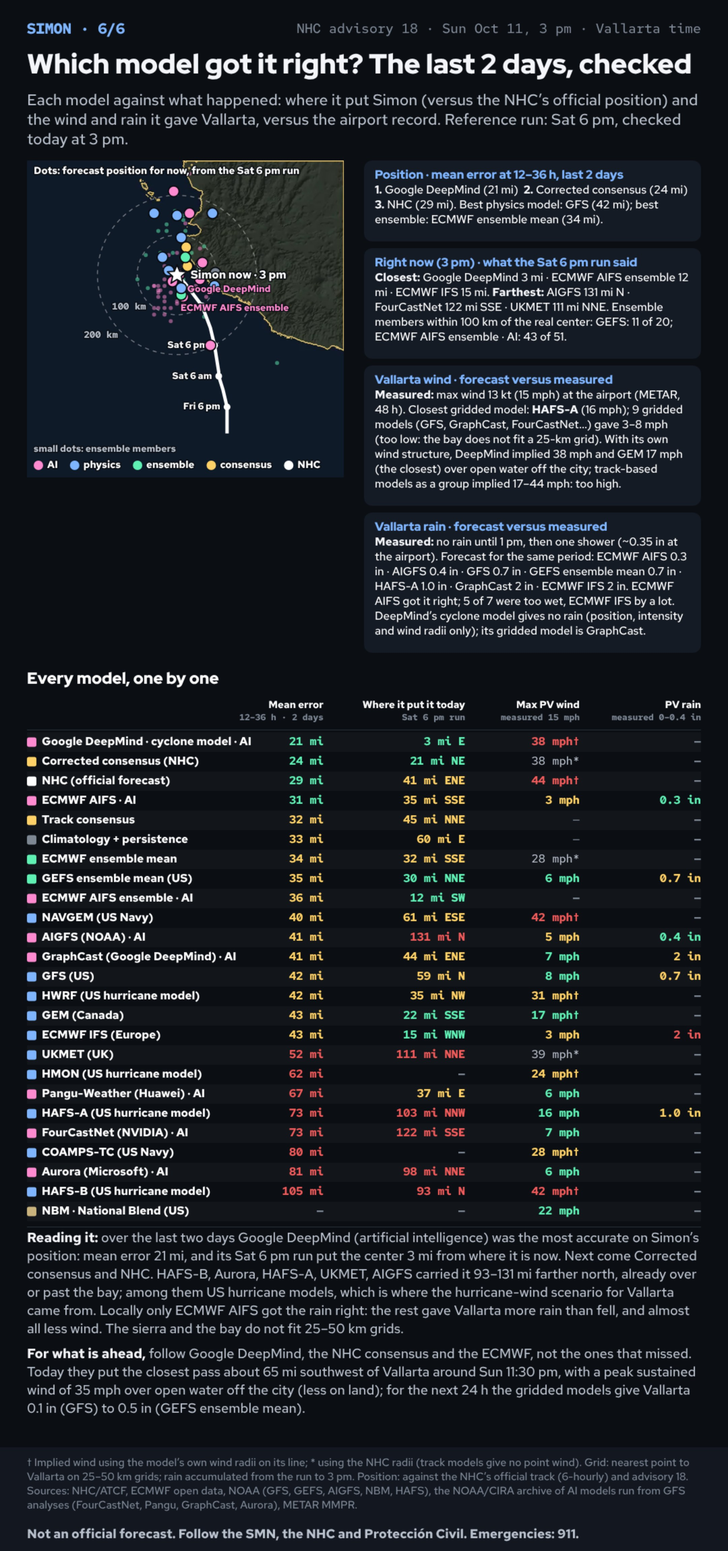
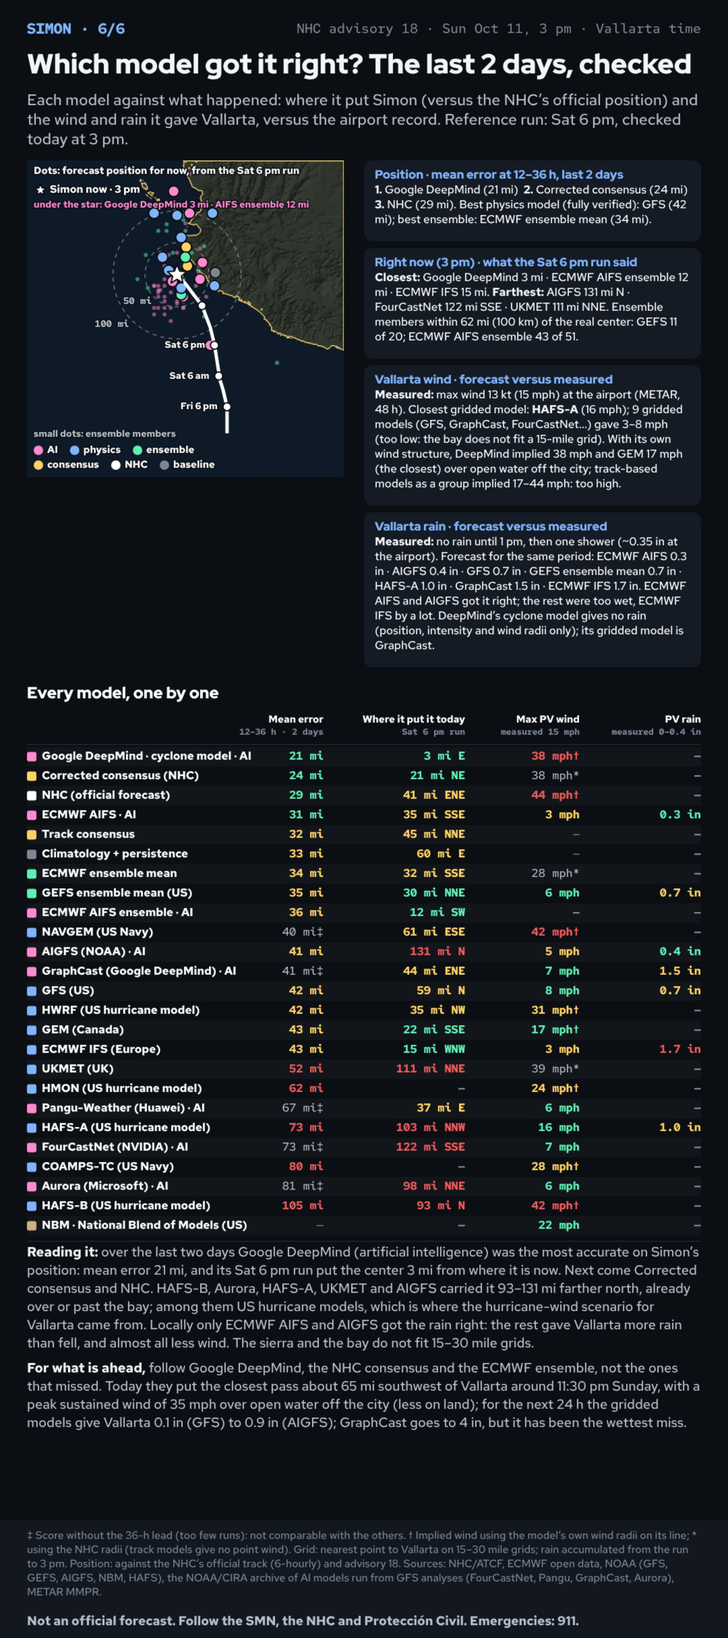
Simon verification graphic: review fixes (incomplete-score marker, AI models in the next-24h rain range, consistent rain verdict, miles throughout in English, map labels and legend, Spanish wording)
Claude-Session: https://claude.ai/code/session_01FJNjJWTDcgPgB2hpttgoDr

Changed region(s): [[0.031, 0.0, 0.9616, 0.9948], [0.4032, 0.2798, 0.4343, 0.3109]]

diff --git a/hurricane-simon/bay/src/graphics.html b/hurricane-simon/bay/src/graphics.html
@@ -306,14 +306,16 @@ function gSummary(){ var HS = SUM_BI ? 1800 : 1700; cv.height = HS; cx.fillStyle
   else wrap(L(fES, fEN), 40, fy + 34, W - 80, 19, 24, C.mute, 500);
   text(bt('No es un pronóstico oficial', 'Not an official forecast') + ' · SMN · NHC · Protección Civil · 911', 40, HS - 24, 19, C.ink2, 700, 'left', FT); }
 // ====================== 7. MODEL VERIFICATION: the last two days, checked ======================
-function rmm(mm){ if (mm === null || mm === undefined) return '—'; return LANG === 'es' ? Math.round(mm) + ' mm' : (mm / 25.4).toFixed(mm < 25 ? 1 : 0) + ' in'; }
+function rmm(mm){ if (mm === null || mm === undefined) return '—'; return LANG === 'es' ? Math.round(mm) + ' mm' : (mm / 25.4).toFixed(mm < 100 ? 1 : 0) + ' in'; }
+function joinY(arr){ if (arr.length < 2) return arr.join(''); return arr.slice(0, -1).join(', ') + (LANG === 'es' ? ' y ' : ' and ') + arr[arr.length - 1]; }
+function dayAt(iso){ var d = roundH(iso, 30); return LANG === 'es' ? 'el ' + DL.es[d.getUTCDay()] + ' hacia las ' + hr(d) : 'around ' + hr(d) + ' ' + DL.en[d.getUTCDay()]; }
 function kmS(km){ if (km === null || km === undefined) return '—'; return LANG === 'es' ? Math.round(km) + ' km' : Math.round(km / 1.609) + ' mi'; }
 function ktS(kt){ if (kt === null || kt === undefined) return '—'; return LANG === 'es' ? Math.round(kt * 1.852) + ' km/h' : Math.round(kt * 1.15078) + ' mph'; }
 function sn(m){ return m.name[LANG === 'es' ? 0 : 1].replace(/ · .*$/, '').replace(/ \(.*\)$/, ''); }
 function vcol(x, g, a){ return x <= g ? C.ok : x <= a ? C.t1 : C.t3; }
 function star(x, y, r, col){ cx.fillStyle = col; cx.strokeStyle = '#0b0e13'; cx.lineWidth = 2; cx.beginPath(); for (var i = 0; i < 10; i++){ var rr = i % 2 ? r * 0.45 : r, a = -Math.PI / 2 + i * Math.PI / 5; cx.lineTo(x + rr * Math.cos(a), y + rr * Math.sin(a)); } cx.closePath(); cx.fill(); cx.stroke(); }
 function rangeKt(a, b){ return LANG === 'es' ? Math.round(a * 1.852) + '–' + Math.round(b * 1.852) + ' km/h' : Math.round(a * 1.15078) + '–' + Math.round(b * 1.15078) + ' mph'; }
-function gVerify(){ var HV = 2300; cv.height = HV; cx.fillStyle = C.bg; cx.fillRect(0, 0, W, HV);
+function gVerify(){ var HV = 2430; cv.height = HV; cx.fillStyle = C.bg; cx.fillRect(0, 0, W, HV);
   var ref = VF.ref_cycle, refTxt = dh(ref), nowTxt = hr(cst(VF.now.t)), O = VF.obs;
   header(6, L('¿Qué modelo ha acertado? Los últimos 2 días, a prueba', 'Which model got it right? The last 2 days, checked'),
     L('Cada modelo contra lo que pasó: dónde puso a Simon (frente a la posición oficial del NHC) y qué viento y lluvia le dio a Vallarta, frente a lo medido en el aeropuerto. Corrida de referencia: la del ' + refTxt + ', verificada hoy a las ' + nowTxt + '.',
@@ -322,20 +324,22 @@ function gVerify(){ var HV = 2300; cv.height = HV; cx.fillStyle = C.bg; cx.fillR
   var rb = LY.reg.bbox, R = {x: 40, y: MAP_TOP + 10, w: 470, h: 470, bbox: rb}; clipMap(R); if (IMG.reg_base) cx.drawImage(IMG.reg_base, R.x, R.y, R.w, R.h);
   cx.fillStyle = 'rgba(255,214,120,.6)'; var s = R.w / LY.reg.w; LY.reg.coast.forEach(function(p){ cx.fillRect(R.x + p[0] * s, R.y + p[1] * s, 1.5, 1.5); });
   var nowP = px(R, VF.now.lat, VF.now.lon), kmpx = R.h / ((rb[0] - rb[1]) * 110.57);
-  [100, 200].forEach(function(r){ cx.strokeStyle = 'rgba(255,255,255,.4)'; cx.setLineDash([6, 6]); cx.lineWidth = 1.5; cx.beginPath(); cx.arc(nowP[0], nowP[1], r * kmpx, 0, 7); cx.stroke(); cx.setLineDash([]); text(r + ' km', nowP[0] - r * kmpx * 0.71 - 4, nowP[1] + r * kmpx * 0.71 + 6, 14, C.ink2, 600, 'right', FM, true); });
+  (LANG === 'es' ? [[100, '100 km'], [200, '200 km']] : [[80.47, '50 mi'], [160.93, '100 mi']]).forEach(function(q){ var r = q[0]; cx.strokeStyle = 'rgba(255,255,255,.4)'; cx.setLineDash([6, 6]); cx.lineWidth = 1.5; cx.beginPath(); cx.arc(nowP[0], nowP[1], r * kmpx, 0, 7); cx.stroke(); cx.setLineDash([]); text(q[1], nowP[0] - r * kmpx * 0.71 - 4, nowP[1] + r * kmpx * 0.71 + 6, 14, C.ink2, 600, 'right', FM, true); });
   Object.keys(VF.members).forEach(function(k){ var m = VF.members[k]; cx.fillStyle = k === 'gefs' ? 'rgba(95,240,180,.5)' : 'rgba(255,138,208,.5)'; m.pos.forEach(function(p){ var q = px(R, p[0], p[1]); cx.beginPath(); cx.arc(q[0], q[1], 3, 0, 7); cx.fill(); }); });
   var t0 = Date.parse(VF.window_start.replace('Z', ':00Z')) - 6 * 3600e3, bt = VF.best.filter(function(b){ return Date.parse(b.t.replace('Z', ':00Z')) >= t0; }).map(function(b){ return [b.lat, b.lon, b.t]; }); bt.push([VF.now.lat, VF.now.lon, VF.now.t]);
-  cx.strokeStyle = '#fff'; cx.lineWidth = 5; cx.beginPath(); bt.forEach(function(p, q){ var z = px(R, p[0], p[1]); q ? cx.lineTo(z[0], z[1]) : cx.moveTo(z[0], z[1]); }); cx.stroke();
-  bt.forEach(function(p){ if (p[2] === VF.now.t) return; var d = cst(p[2]); if (d.getUTCHours() % 12 !== 6 || d.getUTCMinutes()) return; var z = px(R, p[0], p[1]); cx.fillStyle = '#fff'; cx.beginPath(); cx.arc(z[0], z[1], 5, 0, 7); cx.fill(); if (Math.hypot(z[0] - nowP[0], z[1] - nowP[1]) > 70) text(dh(p[2]), z[0] - 10, z[1], 14, '#fff', 600, 'right', FT, true); });
   var dots = VF.models.filter(function(m){ return m.now && m.now[ref]; });
   dots.forEach(function(m){ var n = m.now[ref], z = px(R, n.lat, n.lon); cx.fillStyle = m.color; cx.strokeStyle = '#0b0e13'; cx.lineWidth = 2; cx.beginPath(); cx.arc(z[0], z[1], 8, 0, 7); cx.fill(); cx.stroke(); });
-  star(nowP[0], nowP[1], 15, '#fff'); text(L('Simon ahora · ', 'Simon now · ') + nowTxt, nowP[0] + 20, nowP[1] + 1, 17, '#fff', 800, 'left', FT, true);
-  var byNow = dots.slice().sort(function(a, b){ return a.now[ref].err - b.now[ref].err; });
-  byNow.slice(0, 2).forEach(function(m, i){ var n = m.now[ref], z = px(R, n.lat, n.lon); text(sn(m), z[0] + 12, z[1] + 22 + i * 18, 14, m.color, 700, 'left', FT, true); });
+  cx.strokeStyle = '#fff'; cx.lineWidth = 5; cx.beginPath(); bt.forEach(function(p, q){ var z = px(R, p[0], p[1]); q ? cx.lineTo(z[0], z[1]) : cx.moveTo(z[0], z[1]); }); cx.stroke();
+  bt.forEach(function(p){ if (p[2] === VF.now.t) return; var d = cst(p[2]); if (d.getUTCHours() % 12 !== 6 || d.getUTCMinutes()) return; var z = px(R, p[0], p[1]); cx.fillStyle = '#fff'; cx.strokeStyle = '#0b0e13'; cx.lineWidth = 2; cx.beginPath(); cx.arc(z[0], z[1], 6, 0, 7); cx.fill(); cx.stroke(); if (Math.hypot(z[0] - nowP[0], z[1] - nowP[1]) > 70) text(dh(p[2]), z[0] - 14, z[1], 14, '#fff', 700, 'right', FT, true); });
+  star(nowP[0], nowP[1], 15, '#fff');
+  var byNow = dots.slice().sort(function(a, b){ return a.now[ref].err - b.now[ref].err; }), nearStar = [];
+  byNow.slice(0, 2).forEach(function(m){ var n = m.now[ref], z = px(R, n.lat, n.lon); if (Math.hypot(z[0] - nowP[0], z[1] - nowP[1]) < 24) nearStar.push(sn(m).replace('ECMWF ', '') + (LANG === 'es' ? ' a ' : ' ') + kmS(n.err)); else text(sn(m), z[0] + 12, z[1] + 20, 14, m.color, 700, 'left', FT, true); });
+  star(R.x + 20, R.y + 44, 9, '#fff'); text(L('Simon ahora · ', 'Simon now · ') + nowTxt, R.x + 34, R.y + 44, 16, '#fff', 800, 'left', FT, true);
+  if (nearStar.length) text(L('bajo la estrella: ', 'under the star: ') + nearStar.join(' · '), R.x + 10, R.y + 66, 14, '#ff8ad0', 700, 'left', FT, true);
   text(L('Puntos: posición prevista para ahora, corrida del ' + refTxt, 'Dots: forecast position for now, from the ' + refTxt + ' run'), R.x + 10, R.y + 16, 15, '#fff', 600, 'left', FT, true);
-  var lg = [[KIND_COL_AI(), L('IA', 'AI')], ['#7fb5ff', L('físico', 'physics')], ['#5ff0b4', L('ensamble', 'ensemble')], ['#ffd166', L('consenso', 'consensus')], ['#ffffff', 'NHC']]; var lx = R.x + 10, ly = R.y + R.h - 18;
-  lg.forEach(function(q){ cx.fillStyle = q[0]; cx.beginPath(); cx.arc(lx + 7, ly, 7, 0, 7); cx.fill(); text(q[1], lx + 20, ly, 15, '#fff', 600, 'left', FT, true); cx.font = '600 15px ' + FT; lx += 28 + cx.measureText(q[1]).width + 10; });
-  text(L('puntitos: miembros de ensamble', 'small dots: ensemble members'), R.x + 10, R.y + R.h - 42, 14, C.ink2, 600, 'left', FT, true); cx.restore();
+  var lg = [[KIND_COL_AI(), L('IA', 'AI')], ['#7fb5ff', L('físico', 'physics')], ['#5ff0b4', L('ensamble', 'ensemble')], ['#ffd166', L('consenso', 'consensus')], ['#ffffff', 'NHC'], ['#7d8794', L('referencia', 'baseline')]]; var lx = R.x + 10, ly = R.y + R.h - 40;
+  lg.forEach(function(q, i){ if (i === 3){ lx = R.x + 10; ly += 22; } cx.fillStyle = q[0]; cx.beginPath(); cx.arc(lx + 7, ly, 7, 0, 7); cx.fill(); text(q[1], lx + 20, ly, 15, '#fff', 600, 'left', FT, true); cx.font = '600 15px ' + FT; lx += 28 + cx.measureText(q[1]).width + 10; });
+  text(L('puntitos: miembros de ensamble', 'small dots: ensemble members'), R.x + 10, R.y + R.h - 64, 14, C.ink2, 600, 'left', FT, true); cx.restore();
   // ---- verdict cards ----
   var byScore = VF.models.filter(function(m){ return m.score !== null && m.n >= 1; }), top3 = byScore.slice(0, 3);
   var bestOf = function(kind){ return byScore.filter(function(m){ return m.kind === kind; })[0]; };
@@ -346,23 +350,23 @@ function gVerify(){ var HV = 2300; cv.height = HV; cx.fillStyle = C.bg; cx.fillR
   var trkW = VF.models.filter(function(m){ return (m.pv.wind_src === 'track' || m.pv.wind_src === 'radii') && m.pv.wind_max_kt; }).map(function(m){ return m.pv.wind_max_kt; });
   var gdm = VF.models.filter(function(m){ return m.key === 'GDMN' && m.pv.wind_max_kt; })[0], radW = VF.models.filter(function(m){ return m.pv.wind_src === 'radii' && m.pv.wind_max_kt; }).sort(function(a, b){ return Math.abs(a.pv.wind_max_kt - O.wind_max_kt) - Math.abs(b.pv.wind_max_kt - O.wind_max_kt); });
   var cx0 = 540, cw = W - 40 - cx0, cy = MAP_TOP + 10;
-  function vcard(title, body){ var hh = rich(body, cx0 + 16, -9999, cw - 32, 17, 22, '#fff'); var h = 44 + hh + 10; cx.fillStyle = '#151b25'; roundRect(cx0, cy, cw, h, 12); cx.fill(); text(title, cx0 + 16, cy + 22, 18, C.accent, 800, 'left', FD); rich(body, cx0 + 16, cy + 44, cw - 32, 17, 22, '#fff'); cy += h + 10; }
+  function vcard(title, body){ var hh = rich(body, cx0 + 16, -9999, cw - 32, 17, 22, '#fff'); var h = 44 + hh + 10; cx.fillStyle = '#151b25'; roundRect(cx0, cy, cw, h, 12); cx.fill(); text(title, cx0 + 16, cy + 22, fitText(title, cw - 32, 18, 800, FD), C.accent, 800, 'left', FD); rich(body, cx0 + 16, cy + 44, cw - 32, 17, 22, '#fff'); cy += h + 10; }
   var join = function(arr){ return arr.join(LANG === 'es' ? ' · ' : ' · '); };
   vcard(L('Posición · error medio a 12–36 h, últimos 2 días', 'Position · mean error at 12–36 h, last 2 days'),
-    L('*1.* ' + sn(top3[0]) + ' (' + kmS(top3[0].score) + ')  *2.* ' + sn(top3[1]) + ' (' + kmS(top3[1].score) + ')  *3.* ' + sn(top3[2]) + ' (' + kmS(top3[2].score) + '). Mejor modelo físico: ' + sn(bestOf('dyn')) + ' (' + kmS(bestOf('dyn').score) + '); mejor ensamble: ' + sn(bestOf('ens')) + ' (' + kmS(bestOf('ens').score) + ').',
-      '*1.* ' + sn(top3[0]) + ' (' + kmS(top3[0].score) + ')  *2.* ' + sn(top3[1]) + ' (' + kmS(top3[1].score) + ')  *3.* ' + sn(top3[2]) + ' (' + kmS(top3[2].score) + '). Best physics model: ' + sn(bestOf('dyn')) + ' (' + kmS(bestOf('dyn').score) + '); best ensemble: ' + sn(bestOf('ens')) + ' (' + kmS(bestOf('ens').score) + ').'));
-  var mem = Object.keys(VF.members).map(function(k){ var m = VF.members[k]; return m.name[LANG === 'es' ? 0 : 1] + ': ' + m.within100 + L(' de ', ' of ') + m.n; });
-  vcard(L('Ahora mismo (' + nowTxt + ') · lo que decía la corrida del ' + refTxt, 'Right now (' + nowTxt + ') · what the ' + refTxt + ' run said'),
+    L('*1.* ' + sn(top3[0]) + ' (' + kmS(top3[0].score) + ')  *2.* ' + sn(top3[1]) + ' (' + kmS(top3[1].score) + ')  *3.* ' + sn(top3[2]) + ' (' + kmS(top3[2].score) + '). Mejor modelo físico (con verificación completa): ' + sn(bestOf('dyn')) + ' (' + kmS(bestOf('dyn').score) + '); mejor ensamble: ' + sn(bestOf('ens')) + ' (' + kmS(bestOf('ens').score) + ').',
+      '*1.* ' + sn(top3[0]) + ' (' + kmS(top3[0].score) + ')  *2.* ' + sn(top3[1]) + ' (' + kmS(top3[1].score) + ')  *3.* ' + sn(top3[2]) + ' (' + kmS(top3[2].score) + '). Best physics model (fully verified): ' + sn(bestOf('dyn')) + ' (' + kmS(bestOf('dyn').score) + '); best ensemble: ' + sn(bestOf('ens')) + ' (' + kmS(bestOf('ens').score) + ').'));
+  var mem = Object.keys(VF.members).map(function(k){ var m = VF.members[k]; return m.name[LANG === 'es' ? 0 : 1].replace(/ · .*$/, '') + (LANG === 'es' ? ', ' : ' ') + m.within100 + L(' de ', ' of ') + m.n; });
+  vcard(L('Ahora (' + nowTxt + ') · según la corrida del ' + refTxt, 'Right now (' + nowTxt + ') · what the ' + refTxt + ' run said'),
     L('*Más cerca:* ' + join(nowB.map(function(m){ return sn(m) + ' ' + kmS(m.now[ref].err); })) + '. *Más lejos:* ' + join(nowW.map(function(m){ return sn(m) + ' ' + kmS(m.now[ref].err) + ' al ' + dirOf(m.now[ref]); })) + '. Miembros de ensamble a menos de 100 km del centro real: ' + mem.join('; ') + '.',
-      '*Closest:* ' + join(nowB.map(function(m){ return sn(m) + ' ' + kmS(m.now[ref].err); })) + '. *Farthest:* ' + join(nowW.map(function(m){ return sn(m) + ' ' + kmS(m.now[ref].err) + ' ' + dirOf(m.now[ref]); })) + '. Ensemble members within 100 km of the real center: ' + mem.join('; ') + '.'));
+      '*Closest:* ' + join(nowB.map(function(m){ return sn(m) + ' ' + kmS(m.now[ref].err); })) + '. *Farthest:* ' + join(nowW.map(function(m){ return sn(m) + ' ' + kmS(m.now[ref].err) + ' ' + dirOf(m.now[ref]); })) + '. Ensemble members within 62 mi (100 km) of the real center: ' + mem.join('; ') + '.'));
   var w0 = gridW[0], wlo = gridW.filter(function(m){ return m.pv.wind_max_kt < O.wind_max_kt - 4; }), tmin = trkW.length ? Math.min.apply(null, trkW) : null, tmax = trkW.length ? Math.max.apply(null, trkW) : null;
   vcard(L('Viento en Vallarta · previsto frente a medido', 'Vallarta wind · forecast versus measured'),
     L('*Medido:* ' + O.wind_note[0] + '. Rejilla más cercana a la realidad: *' + sn(w0) + '* (' + ktS(w0.pv.wind_max_kt) + ')' + (wlo.length ? '; ' + (wlo.length > 3 ? wlo.length + ' modelos de rejilla (' + wlo.slice(0, 3).map(sn).join(', ') + '…)' : join(wlo.map(sn))) + ' dieron ' + rangeKt(Math.min.apply(null, wlo.map(function(m){ return m.pv.wind_max_kt; })), Math.max.apply(null, wlo.map(function(m){ return m.pv.wind_max_kt; }))) + ' (de menos: la bahía no cabe en una malla de 25 km)' : '') + '. Con su propia estructura de viento, ' + (gdm ? 'DeepMind implicaba ' + ktS(gdm.pv.wind_max_kt) + ' y ' : '') + (radW.length ? sn(radW[0]) + ' ' + ktS(radW[0].pv.wind_max_kt) + ' (el más cercano)' : '') + ' en mar abierto frente a la ciudad; en conjunto los modelos de trayectoria implicaban ' + rangeKt(tmin, tmax) + ': de más.',
-      '*Measured:* ' + O.wind_note[1] + '. Closest gridded model: *' + sn(w0) + '* (' + ktS(w0.pv.wind_max_kt) + ')' + (wlo.length ? '; ' + (wlo.length > 3 ? wlo.length + ' gridded models (' + wlo.slice(0, 3).map(sn).join(', ') + '…)' : join(wlo.map(sn))) + ' gave ' + rangeKt(Math.min.apply(null, wlo.map(function(m){ return m.pv.wind_max_kt; })), Math.max.apply(null, wlo.map(function(m){ return m.pv.wind_max_kt; }))) + ' (too low: the bay does not fit a 25-km grid)' : '') + '. With its own wind structure, ' + (gdm ? 'DeepMind implied ' + ktS(gdm.pv.wind_max_kt) + ' and ' : '') + (radW.length ? sn(radW[0]) + ' ' + ktS(radW[0].pv.wind_max_kt) + ' (the closest)' : '') + ' over open water off the city; track-based models as a group implied ' + rangeKt(tmin, tmax) + ': too high.'));
-  var r0 = gridR[0], rlast = gridR[gridR.length - 1], wet = gridR.filter(function(m){ return m.pv.rain_mm > O.rain_mm_hi + 5; }), r0ok = r0.pv.rain_mm <= O.rain_mm_hi + 5;
+      '*Measured:* ' + O.wind_note[1] + '. Closest gridded model: *' + sn(w0) + '* (' + ktS(w0.pv.wind_max_kt) + ')' + (wlo.length ? '; ' + (wlo.length > 3 ? wlo.length + ' gridded models (' + wlo.slice(0, 3).map(sn).join(', ') + '…)' : join(wlo.map(sn))) + ' gave ' + rangeKt(Math.min.apply(null, wlo.map(function(m){ return m.pv.wind_max_kt; })), Math.max.apply(null, wlo.map(function(m){ return m.pv.wind_max_kt; }))) + ' (too low: the bay does not fit a 15-mile grid)' : '') + '. With its own wind structure, ' + (gdm ? 'DeepMind implied ' + ktS(gdm.pv.wind_max_kt) + ' and ' : '') + (radW.length ? sn(radW[0]) + ' ' + ktS(radW[0].pv.wind_max_kt) + ' (the closest)' : '') + ' over open water off the city; track-based models as a group implied ' + rangeKt(tmin, tmax) + ': too high.'));
+  var r0 = gridR[0], rlast = gridR[gridR.length - 1], wet = gridR.filter(function(m){ return m.pv.rain_mm > O.rain_mm_hi + 5; }), okR = gridR.filter(function(m){ return m.pv.rain_mm <= O.rain_mm_hi + 5; }), r0ok = okR.length > 0;
   vcard(L('Lluvia en Vallarta · prevista frente a medida', 'Vallarta rain · forecast versus measured'),
-    L('*Medido:* ' + O.rain_note[0] + '. Previsto para el mismo lapso: ' + join(gridR.map(function(m){ return sn(m) + ' ' + rmm(m.pv.rain_mm); })) + '. ' + (r0ok ? sn(r0) + ' acertó; ' + (wet.length === gridR.length - 1 ? 'los demás' : wet.length + ' de ' + gridR.length) + ' dieron de más' : 'todos dieron de más') + (rlast.pv.rain_mm > 30 ? ', ' + sn(rlast) + ' por mucho' : '') + '. El modelo de ciclones de DeepMind no da lluvia (solo posición, intensidad y radios de viento); su modelo de rejilla es GraphCast.',
-      '*Measured:* ' + O.rain_note[1] + '. Forecast for the same period: ' + join(gridR.map(function(m){ return sn(m) + ' ' + rmm(m.pv.rain_mm); })) + '. ' + (r0ok ? sn(r0) + ' got it right; ' + (wet.length === gridR.length - 1 ? 'the rest' : wet.length + ' of ' + gridR.length) + ' were too wet' : 'all were too wet') + (rlast.pv.rain_mm > 30 ? ', ' + sn(rlast) + ' by a lot' : '') + '. DeepMind’s cyclone model gives no rain (position, intensity and wind radii only); its gridded model is GraphCast.'));
+    L('*Medido:* ' + O.rain_note[0] + '. Previsto para el mismo lapso: ' + join(gridR.map(function(m){ return sn(m) + ' ' + rmm(m.pv.rain_mm); })) + '. ' + (r0ok ? joinY(okR.map(sn)) + (okR.length > 1 ? ' acertaron; ' : ' acertó; ') + (wet.length === gridR.length - okR.length ? 'los demás' : wet.length + ' de ' + gridR.length) + ' dieron de más' : 'todos dieron de más') + (rlast.pv.rain_mm > 30 ? ', ' + sn(rlast) + ' por mucho' : '') + '. El modelo de ciclones de DeepMind no da lluvia (solo posición, intensidad y radios de viento); su modelo de rejilla es GraphCast.',
+      '*Measured:* ' + O.rain_note[1] + '. Forecast for the same period: ' + join(gridR.map(function(m){ return sn(m) + ' ' + rmm(m.pv.rain_mm); })) + '. ' + (r0ok ? joinY(okR.map(sn)) + ' got it right; ' + (wet.length === gridR.length - okR.length ? 'the rest' : wet.length + ' of ' + gridR.length) + ' were too wet' : 'all were too wet') + (rlast.pv.rain_mm > 30 ? ', ' + sn(rlast) + ' by a lot' : '') + '. DeepMind’s cyclone model gives no rain (position, intensity and wind radii only); its gridded model is GraphCast.'));
   // ---- the table ----
   var ty = Math.max(R.y + R.h, cy) + 30; text(L('Todos los modelos, uno por uno', 'Every model, one by one'), 40, ty, 24, '#fff', 800, 'left', FD); ty += 30;
   var X = {score: 480, now: 690, wind: 860, rain: W - 40}, PITCH = 29;
@@ -371,7 +375,7 @@ function gVerify(){ var HV = 2300; cv.height = HV; cx.fillStyle = C.bg; cx.fillR
   cx.fillStyle = C.line; cx.fillRect(40, ty, W - 80, 1); ty += 4;
   VF.models.forEach(function(m, i){ var yy = ty + i * PITCH + PITCH / 2; if (i % 2 === 0){ cx.fillStyle = 'rgba(255,255,255,.03)'; cx.fillRect(40, ty + i * PITCH, W - 80, PITCH); }
     cx.fillStyle = m.color; roundRect(40, yy - 7, 14, 14, 3); cx.fill(); var nm = m.name[LANG === 'es' ? 0 : 1]; text(nm, 62, yy, fitText(nm, 330, 17, 700, FT), '#fff', 700, 'left', FT);
-    text(m.score !== null ? kmS(m.score) : '—', X.score, yy, 17, m.score !== null ? vcol(m.score, 50, 80) : C.mute, 700, 'right', FM);
+    text(m.score !== null ? kmS(m.score) + (m.n < 1 ? '‡' : '') : '—', X.score, yy, 17, m.score !== null ? (m.n < 1 ? C.ink2 : vcol(m.score, 50, 80)) : C.mute, m.n < 1 ? 500 : 700, 'right', FM);
     var n = m.now && m.now[ref]; text(n ? kmS(n.err) + ' ' + L('al ', '') + dirOf(n) : '—', X.now, yy, 17, n ? vcol(n.err, 50, 100) : C.mute, 700, 'right', FM);
     var pw = m.pv.wind_max_kt; text(pw !== null && pw !== undefined ? ktS(pw) + (m.pv.wind_src === 'track' ? '*' : m.pv.wind_src === 'radii' ? '†' : '') : '—', X.wind, yy, 17, pw === null || pw === undefined ? C.mute : m.pv.wind_src === 'track' ? C.ink2 : vcol(Math.abs(pw - O.wind_max_kt), 8, 16), m.pv.wind_src === 'track' ? 500 : 700, 'right', FM);
     var pr = m.pv.rain_mm; text(pr !== null && pr !== undefined ? rmm(pr) : '—', X.rain, yy, 17, pr === null || pr === undefined ? C.mute : vcol(Math.max(0, pr - O.rain_mm_hi), 8, 30), 700, 'right', FM); });
@@ -379,18 +383,20 @@ function gVerify(){ var HV = 2300; cv.height = HV; cx.fillStyle = C.bg; cx.fillR
   // ---- reading + what to follow now ----
   var cs = VF.consensus, pk = cs.pass_, b0 = top3[0], b1 = top3[1], b2 = top3[2];
   var northM = byNow.filter(function(m){ return m.now[ref].err >= 140 && m.now[ref].dn > 100; }), north = northM.map(sn), nKm = northM.length ? kmS(Math.min.apply(null, northM.map(function(m){ return m.now[ref].err; }))).replace(/ .*$/, '') + '–' + kmS(Math.max.apply(null, northM.map(function(m){ return m.now[ref].err; }))) : '', hurr = northM.some(function(m){ return /^(HFSA|HFSB|HMON|CTCX)$/.test(m.key); });
-  var nxt = VF.models.filter(function(m){ return m.next && m.next.rain_mm !== null && m.next.rain_mm !== undefined && m.kind !== 'ai'; }).sort(function(a, b){ return a.next.rain_mm - b.next.rain_mm; });
-  var nxtTxt = nxt.length ? L('; para las próximas 24 h, los modelos de rejilla dan a Vallarta de ' + rmm(nxt[0].next.rain_mm) + ' (' + sn(nxt[0]) + ') a ' + rmm(nxt[nxt.length - 1].next.rain_mm) + ' (' + sn(nxt[nxt.length - 1]) + ')', '; for the next 24 h the gridded models give Vallarta ' + rmm(nxt[0].next.rain_mm) + ' (' + sn(nxt[0]) + ') to ' + rmm(nxt[nxt.length - 1].next.rain_mm) + ' (' + sn(nxt[nxt.length - 1]) + ')') : '';
-  var h1 = rich(L('*Lectura:* en los últimos dos días, ' + sn(b0) + (b0.kind === 'ai' ? ' (inteligencia artificial)' : '') + ' fue el más certero con la posición de Simon: error medio de ' + kmS(b0.score) + ', y ' + (b0.now[ref] ? 'el ' + refTxt + ' puso el centro a ' + kmS(b0.now[ref].err) + ' de donde está ahora' : 'sin fallos grandes') + '. Le siguen ' + sn(b1) + ' y ' + sn(b2) + '.' + (north.length ? ' ' + north.join(', ') + ' lo llevaban ' + nKm + ' más al norte, ya sobre la bahía o pasándola' + (hurr ? '; entre ellos, modelos de huracanes de EE. UU., de donde salía el escenario de viento de huracán en Vallarta.' : '.') : '') + ' En lo local, ' + (r0ok ? 'solo ' + sn(r0) + ' acertó con la lluvia: los demás' : 'ningún modelo de rejilla acertó: todos') + ' le pusieron a Vallarta más lluvia de la que cayó, y casi todos menos viento. La sierra y la bahía no caben en mallas de 25–50 km.',
-    '*Reading it:* over the last two days ' + sn(b0) + (b0.kind === 'ai' ? ' (artificial intelligence)' : '') + ' was the most accurate on Simon’s position: mean error ' + kmS(b0.score) + ', and ' + (b0.now[ref] ? 'its ' + refTxt + ' run put the center ' + kmS(b0.now[ref].err) + ' from where it is now' : 'no large misses') + '. Next come ' + sn(b1) + ' and ' + sn(b2) + '.' + (north.length ? ' ' + north.join(', ') + ' carried it ' + nKm + ' farther north, already over or past the bay' + (hurr ? '; among them US hurricane models, which is where the hurricane-wind scenario for Vallarta came from.' : '.') : '') + ' Locally ' + (r0ok ? 'only ' + sn(r0) + ' got the rain right: the rest' : 'no gridded model got it right: all') + ' gave Vallarta more rain than fell, and almost all less wind. The sierra and the bay do not fit 25–50 km grids.'), 40, ty, W - 80, 20, 27, C.ink2);
+  var nxt = VF.models.filter(function(m){ return m.next && m.next.rain_mm !== null && m.next.rain_mm !== undefined; }).sort(function(a, b){ return a.next.rain_mm - b.next.rain_mm; });
+  var out = null; if (nxt.length >= 3 && nxt[nxt.length - 1].next.rain_mm > 2 * nxt[nxt.length - 2].next.rain_mm){ out = nxt[nxt.length - 1]; nxt = nxt.slice(0, -1); }
+  var nxtTxt = nxt.length ? L('; para las próximas 24 h, los modelos de rejilla dan a Vallarta de ' + rmm(nxt[0].next.rain_mm) + ' (' + sn(nxt[0]) + ') a ' + rmm(nxt[nxt.length - 1].next.rain_mm) + ' (' + sn(nxt[nxt.length - 1]) + ')' + (out ? '; ' + sn(out) + ' se va a ' + rmm(out.next.rain_mm) + ', pero ha sido el que más se pasó' : ''),
+                             '; for the next 24 h the gridded models give Vallarta ' + rmm(nxt[0].next.rain_mm) + ' (' + sn(nxt[0]) + ') to ' + rmm(nxt[nxt.length - 1].next.rain_mm) + ' (' + sn(nxt[nxt.length - 1]) + ')' + (out ? '; ' + sn(out) + ' goes to ' + rmm(out.next.rain_mm) + ', but it has been the wettest miss' : '')) : '';
+  var h1 = rich(L('*Lectura:* en los últimos dos días, ' + sn(b0) + (b0.kind === 'ai' ? ' (inteligencia artificial)' : '') + ' fue el más certero con la posición de Simon: error medio de ' + kmS(b0.score) + ', y ' + (b0.now[ref] ? 'el ' + refTxt + ' puso el centro a ' + kmS(b0.now[ref].err) + ' de donde está ahora' : 'sin fallos grandes') + '. Le siguen ' + sn(b1) + ' y ' + sn(b2) + '.' + (north.length ? ' ' + joinY(north) + ' lo llevaban ' + nKm + ' más al norte, ya sobre la bahía o pasándola' + (hurr ? '; entre ellos, modelos de huracanes de EE. UU., de donde salía el escenario de viento de huracán en Vallarta.' : '.') : '') + ' En lo local, ' + (okR.length ? 'solo ' + joinY(okR.map(sn)) + (okR.length > 1 ? ' acertaron' : ' acertó') + ' con la lluvia: los demás' : 'ningún modelo de rejilla acertó: todos') + ' le pusieron a Vallarta más lluvia de la que cayó, y casi todos menos viento. La sierra y la bahía no caben en mallas de 25–50 km.',
+    '*Reading it:* over the last two days ' + sn(b0) + (b0.kind === 'ai' ? ' (artificial intelligence)' : '') + ' was the most accurate on Simon’s position: mean error ' + kmS(b0.score) + ', and ' + (b0.now[ref] ? 'its ' + refTxt + ' run put the center ' + kmS(b0.now[ref].err) + ' from where it is now' : 'no large misses') + '. Next come ' + sn(b1) + ' and ' + sn(b2) + '.' + (north.length ? ' ' + joinY(north) + ' carried it ' + nKm + ' farther north, already over or past the bay' + (hurr ? '; among them US hurricane models, which is where the hurricane-wind scenario for Vallarta came from.' : '.') : '') + ' Locally ' + (okR.length ? 'only ' + joinY(okR.map(sn)) + ' got the rain right: the rest' : 'no gridded model got it right: all') + ' gave Vallarta more rain than fell, and almost all less wind. The sierra and the bay do not fit 15–30 mile grids.'), 40, ty, W - 80, 20, 27, C.ink2);
   ty += h1 + 10;
-  var h2 = rich(L('*Para lo que viene,* conviene seguir a ' + sn(b0) + ', al consenso del NHC y al ECMWF, no a los que fallaron. Hoy ponen el paso más cercano a unos ' + dist(pk.km) + ' al ' + c8((pk.brg + 180) % 360) + ' de Vallarta hacia las ' + dh(pk.t) + ', con viento sostenido máximo de ' + spdK(pk.peak_kt) + ' en mar abierto frente a la ciudad (menos en tierra)' + nxtTxt + '.',
-    '*For what is ahead,* follow ' + sn(b0) + ', the NHC consensus and the ECMWF, not the ones that missed. Today they put the closest pass about ' + dist(pk.km) + ' ' + c8((pk.brg + 180) % 360) + ' of Vallarta around ' + dh(pk.t) + ', with a peak sustained wind of ' + spdK(pk.peak_kt) + ' over open water off the city (less on land)' + nxtTxt + '.'), 40, ty, W - 80, 20, 27, C.ink2);
+  var h2 = rich(L('*Para lo que viene,* conviene seguir a ' + sn(b0) + ', al consenso del NHC y al ensamble del ECMWF, no a los que fallaron. Hoy ponen el paso más cercano a unos ' + dist(pk.km) + ' al ' + c8((pk.brg + 180) % 360) + ' de Vallarta ' + dayAt(pk.t) + ', con viento sostenido máximo de ' + spdK(pk.peak_kt) + ' en mar abierto frente a la ciudad (menos en tierra)' + nxtTxt + '.',
+    '*For what is ahead,* follow ' + sn(b0) + ', the NHC consensus and the ECMWF ensemble, not the ones that missed. Today they put the closest pass about ' + dist(pk.km) + ' ' + c8((pk.brg + 180) % 360) + ' of Vallarta ' + dayAt(pk.t) + ', with a peak sustained wind of ' + spdK(pk.peak_kt) + ' over open water off the city (less on land)' + nxtTxt + '.'), 40, ty, W - 80, 20, 27, C.ink2);
   ty += h2;
   // ---- footer ----
-  var fES = '† Viento implícito con los radios de viento del propio modelo sobre su línea; * con los radios del NHC (los modelos de trayectoria no dan viento en un punto). Rejilla: punto más cercano a Vallarta en mallas de 25–50 km; lluvia acumulada desde la corrida hasta las ' + nowTxt + '. Posición: contra la trayectoria oficial del NHC (cada 6 h) y el boletín ' + ADV.num + '. Fuentes: NHC/ATCF, ECMWF open data, NOAA (GFS, GEFS, AIGFS, NBM, HAFS), archivo NOAA/CIRA de modelos de IA con análisis GFS (FourCastNet, Pangu, GraphCast, Aurora), METAR MMPR.';
-  var fEN = '† Implied wind using the model’s own wind radii on its line; * using the NHC radii (track models give no point wind). Grid: nearest point to Vallarta on 25–50 km grids; rain accumulated from the run to ' + nowTxt + '. Position: against the NHC’s official track (6-hourly) and advisory ' + ADV.num + '. Sources: NHC/ATCF, ECMWF open data, NOAA (GFS, GEFS, AIGFS, NBM, HAFS), the NOAA/CIRA archive of AI models run from GFS analyses (FourCastNet, Pangu, GraphCast, Aurora), METAR MMPR.';
-  var fh = wrap(L(fES, fEN), 40, 0, W - 80, 16, 21, C.mute, 500, FT, true), fy = Math.max(ty + 16, HV - fh - 70); if (fy + fh + 70 > HV) fy = HV - fh - 70;
+  var fES = '‡ Puntuación sin el plazo de 36 h (le faltan corridas): no se compara con las demás. † Viento implícito con los radios de viento del propio modelo sobre su línea; * con los radios del NHC (los modelos de trayectoria no dan viento en un punto). Rejilla: punto más cercano a Vallarta en mallas de 25–50 km; lluvia acumulada desde la corrida hasta las ' + nowTxt + '. Posición: contra la trayectoria oficial del NHC (cada 6 h) y el boletín ' + ADV.num + '. Fuentes: NHC/ATCF, ECMWF open data, NOAA (GFS, GEFS, AIGFS, NBM, HAFS), archivo NOAA/CIRA de modelos de IA con análisis GFS (FourCastNet, Pangu, GraphCast, Aurora), METAR MMPR.';
+  var fEN = '‡ Score without the 36-h lead (too few runs): not comparable with the others. † Implied wind using the model’s own wind radii on its line; * using the NHC radii (track models give no point wind). Grid: nearest point to Vallarta on 15–30 mile grids; rain accumulated from the run to ' + nowTxt + '. Position: against the NHC’s official track (6-hourly) and advisory ' + ADV.num + '. Sources: NHC/ATCF, ECMWF open data, NOAA (GFS, GEFS, AIGFS, NBM, HAFS), the NOAA/CIRA archive of AI models run from GFS analyses (FourCastNet, Pangu, GraphCast, Aurora), METAR MMPR.';
+  var fh = wrap(L(fES, fEN), 40, 0, W - 80, 16, 21, C.mute, 500, FT, true), fy = Math.max(ty + 30, HV - fh - 70); if (fy + fh + 70 > HV) fy = HV - fh - 70;
   cx.fillStyle = '#121720'; cx.fillRect(0, fy, W, HV - fy); wrap(L(fES, fEN), 40, fy + 24, W - 80, 16, 21, C.mute, 500);
   text(L('No es un pronóstico oficial. Sigue al SMN, al NHC y a Protección Civil. Emergencias: 911.', 'Not an official forecast. Follow the SMN, the NHC and Protección Civil. Emergencies: 911.'), 40, HV - 24, 19, C.ink2, 600, 'left', FT); }
 function KIND_COL_AI(){ return '#ff8ad0'; }

diff --git a/hurricane-simon/bay/tools/verify_merge.py b/hurricane-simon/bay/tools/verify_merge.py
@@ -65,7 +65,7 @@ ATCF = {'OFCL': (['NHC (pronóstico oficial)', 'NHC (official forecast)'], 'nhc'
         'NVGM': (['NAVGEM (Marina EE. UU.)', 'NAVGEM (US Navy)'], 'dyn'), 'HWRF': (['HWRF (huracanes, EE. UU.)', 'HWRF (US hurricane model)'], 'dyn'), 'HMON': (['HMON (huracanes, EE. UU.)', 'HMON (US hurricane model)'], 'dyn'),
         'HFSA': (['HAFS-A (huracanes, EE. UU.)', 'HAFS-A (US hurricane model)'], 'dyn'), 'HFSB': (['HAFS-B (huracanes, EE. UU.)', 'HAFS-B (US hurricane model)'], 'dyn'), 'CTCX': (['COAMPS-TC (Marina EE. UU.)', 'COAMPS-TC (US Navy)'], 'dyn')}
 GRID = {'ifs_oper': (['ECMWF IFS (Europa)', 'ECMWF IFS (Europe)'], 'dyn'), 'aifs_single': (['ECMWF AIFS · IA', 'ECMWF AIFS · AI'], 'ai'), 'aifs_ens': (['ECMWF AIFS ensamble · IA', 'ECMWF AIFS ensemble · AI'], 'ai'),
-        'aigfs': (['AIGFS (NOAA) · IA', 'AIGFS (NOAA) · AI'], 'ai'), 'nbm': (['NBM · Blend nacional (EE. UU.)', 'NBM · National Blend (US)'], 'blend'), 'hafs_a': (['HAFS-A (huracanes, EE. UU.)', 'HAFS-A (US hurricane model)'], 'dyn'),
+        'aigfs': (['AIGFS (NOAA) · IA', 'AIGFS (NOAA) · AI'], 'ai'), 'nbm': (['NBM · Mezcla nacional de modelos (EE. UU.)', 'NBM · National Blend of Models (US)'], 'blend'), 'hafs_a': (['HAFS-A (huracanes, EE. UU.)', 'HAFS-A (US hurricane model)'], 'dyn'),
         'fourcastnet': (['FourCastNet (NVIDIA) · IA', 'FourCastNet (NVIDIA) · AI'], 'ai'), 'pangu': (['Pangu-Weather (Huawei) · IA', 'Pangu-Weather (Huawei) · AI'], 'ai'), 'graphcast': (['GraphCast (Google DeepMind) · IA', 'GraphCast (Google DeepMind) · AI'], 'ai'), 'aurora': (['Aurora (Microsoft) · IA', 'Aurora (Microsoft) · AI'], 'ai'),
         'gfs': None, 'gefs_mean': None}          # gfs/gefs grids feed the AVNO/AEMN rows (PV wind and rain); positions come from the deck
 GRID_TO_ATCF = {'gfs': 'AVNO', 'gefs_mean': 'AEMN', 'hafs_a': 'HFSA'}
